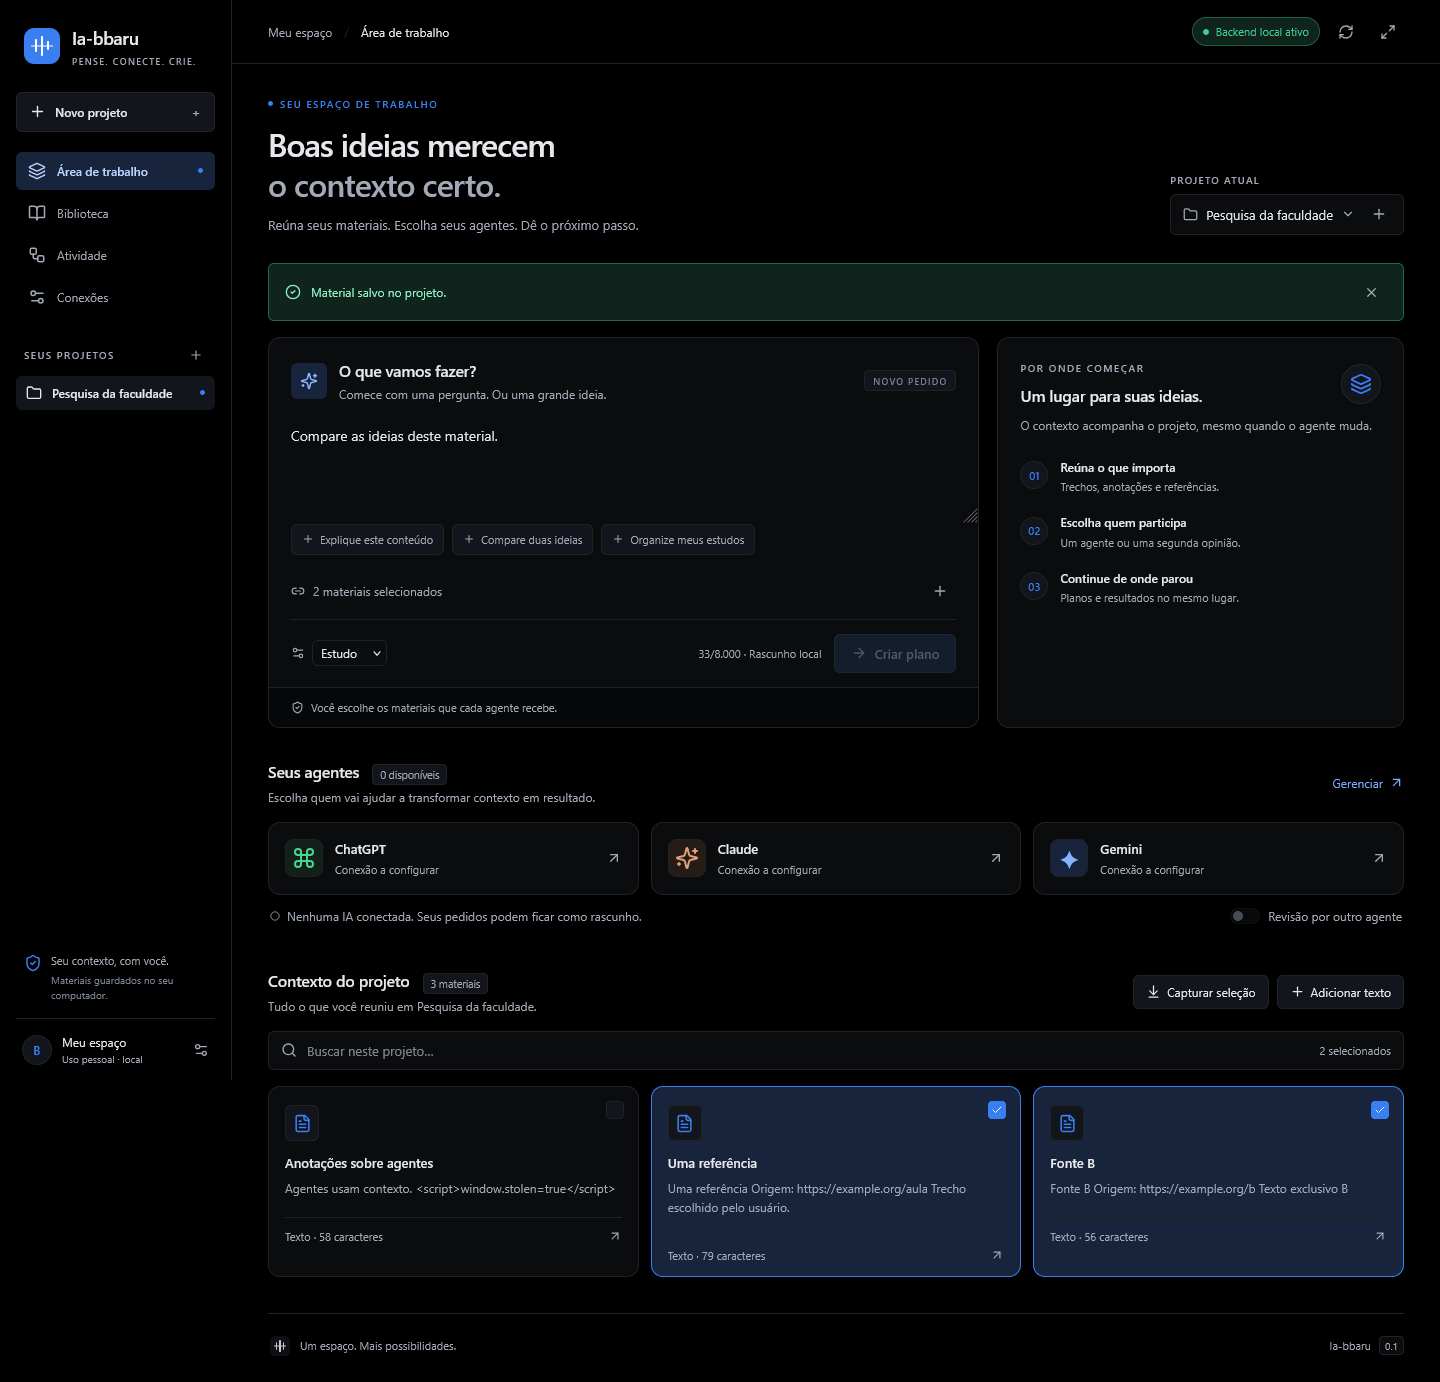
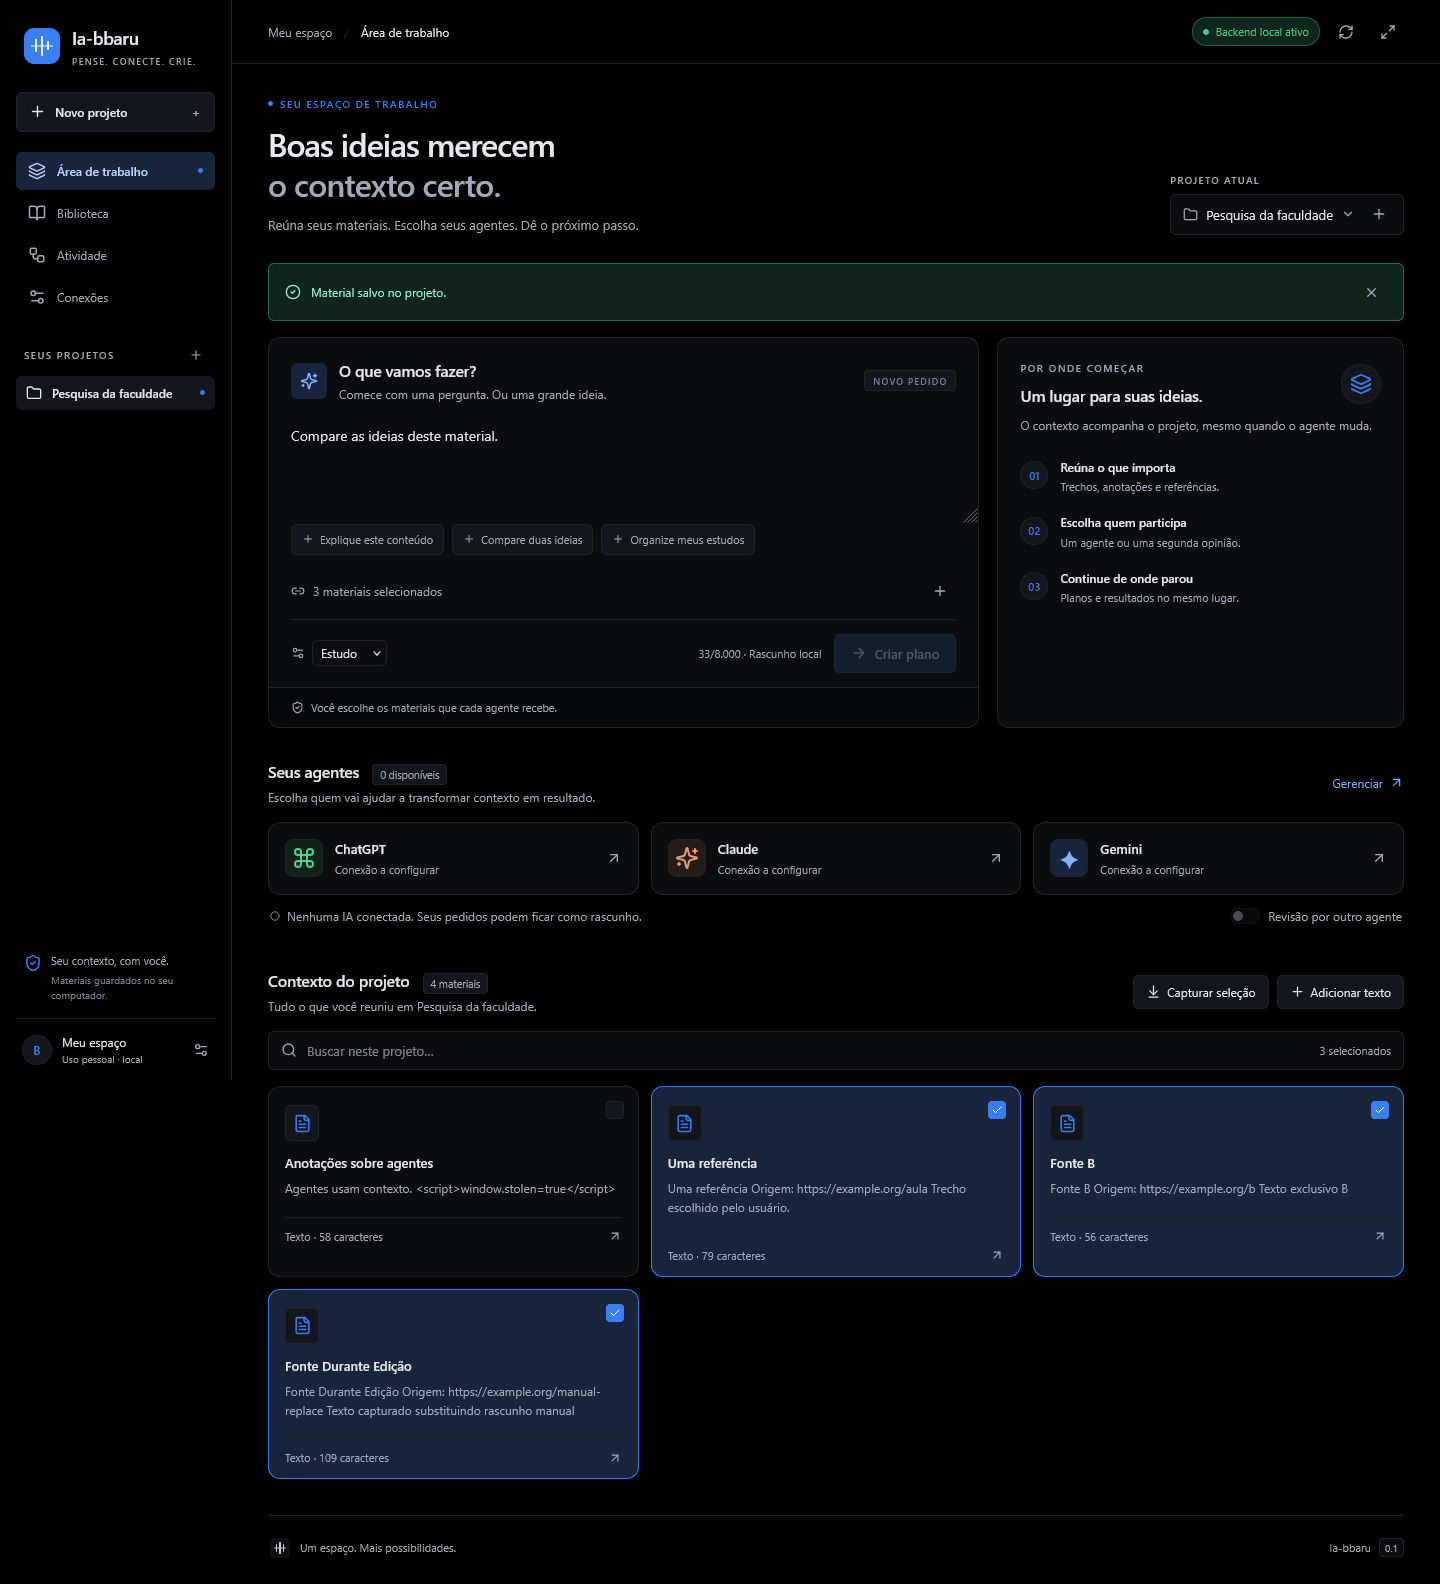
Add behavioral tests for capture arrival during manual edit and ARIA selection state

diff --git a/scripts/verify_ui.py b/scripts/verify_ui.py
@@ -89,9 +89,28 @@ def main():
         assert 'Texto exclusivo A' not in latest['content'], "Text from capture A leaked into capture B!"
         assert 'https://example.org/a' not in latest['content'], "Origin A leaked into capture B!"
 
+        # Test P1 extra: capture arriving while user is manually creating/editing a source
+        page.get_by_role('button',name='Adicionar texto',exact=True).click()
+        expect(page.get_by_role('dialog')).to_be_visible()
+        page.get_by_label('Título',exact=True).fill('Rascunho manual')
+        page.get_by_label('Conteúdo',exact=True).fill('Texto que estava sendo digitado manualmente')
+        page.evaluate("window.testCapture({id:'cap-manual-replace',title:'Fonte Durante Edição',url:'https://example.org/manual-replace',text:'Texto capturado substituindo rascunho manual'})")
+        expect(page.get_by_role('dialog')).to_be_visible()
+        page.get_by_role('button',name='Salvar no projeto',exact=True).click()
+        expect(page.get_by_role('heading',name='Fonte Durante Edição')).to_be_visible()
+        records=client.get(f"/v1/projects/{project['id']}/sources").json()['items']
+        assert len(records)==4
+        latest=records[-1]
+        assert latest['title']=='Fonte Durante Edição'
+        assert 'Texto capturado substituindo rascunho manual' in latest['content']
+        assert 'https://example.org/manual-replace' in latest['content']
+        assert 'Texto que estava sendo digitado manualmente' not in latest['content']
+        assert 'Rascunho manual' not in latest['content']
+
         # Test P2 accessibility: semantic project list in navigation rail (ul > li > button)
         assert page.locator('ul.project-list > li > button').count() >= 1, "Project items must be semantic li under ul"
         assert page.locator('.project-list[role="list"]').count() == 0, "Do not use role='list' on container without listitem children"
+        assert page.locator('ul.project-list > li > button[aria-current="true"]').count() == 1, "Selected project button must have aria-current='true'"
 
         page.screenshot(path=str(artifacts/'workspace-firefox.png'),full_page=True)
         page.set_viewport_size({'width':360,'height':900})
